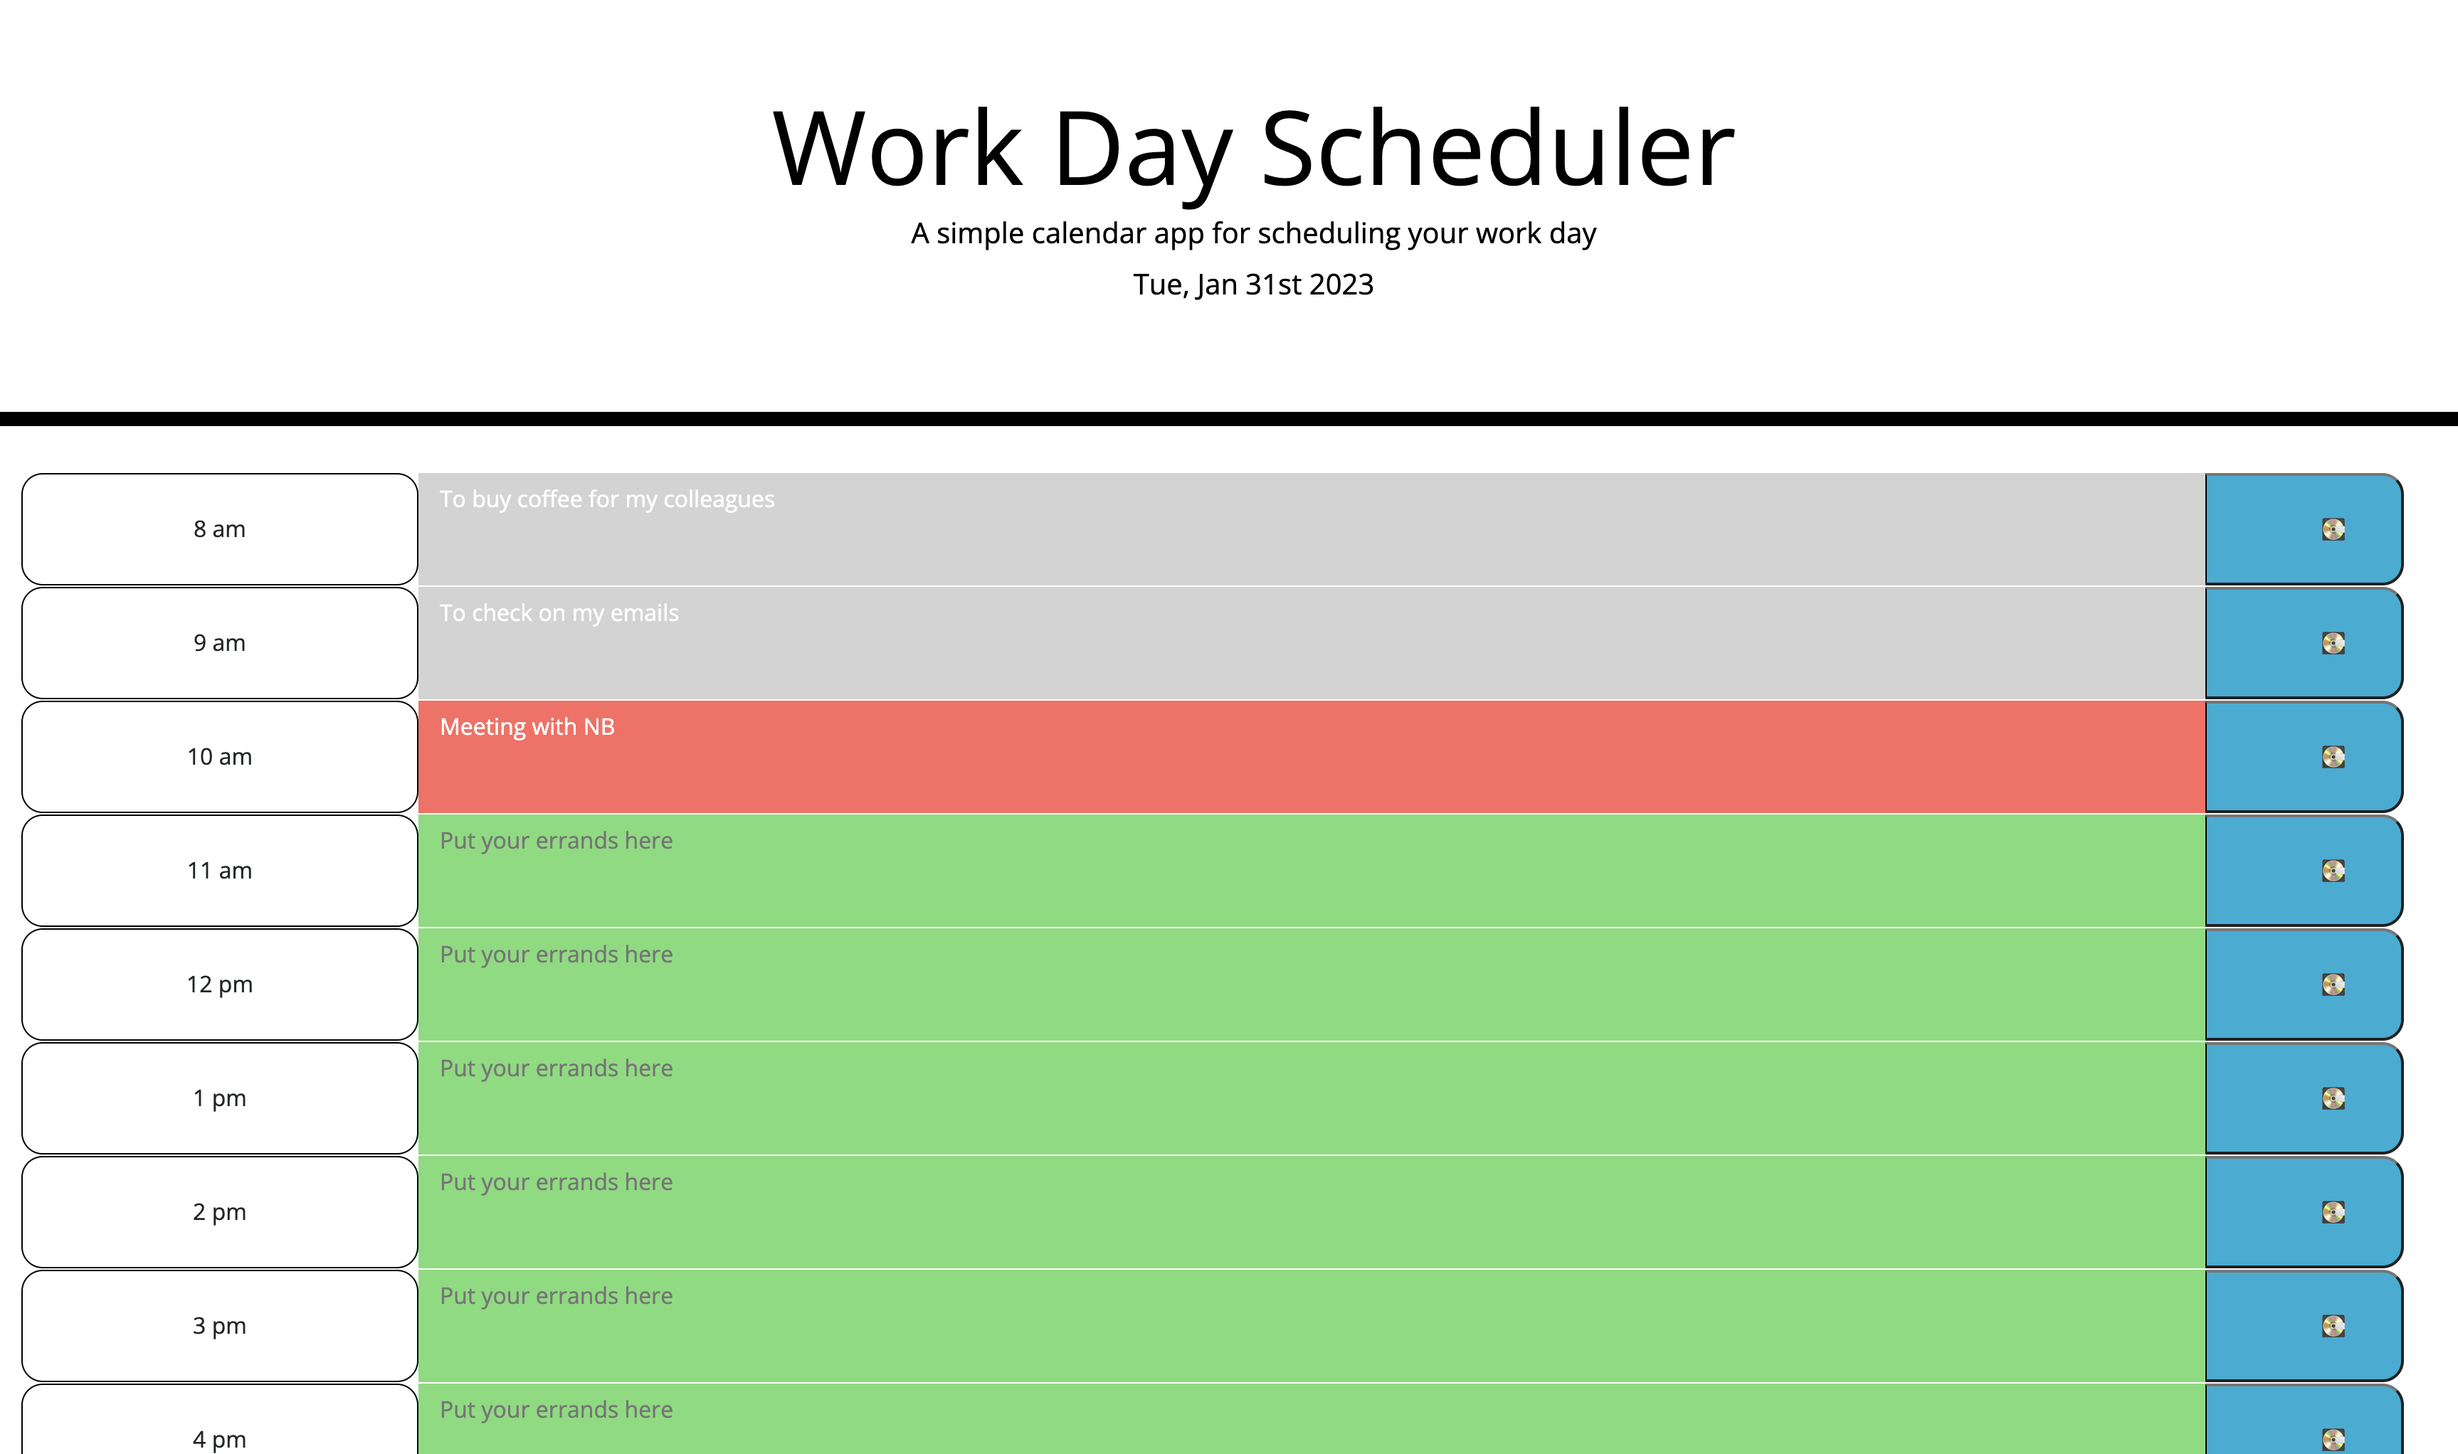
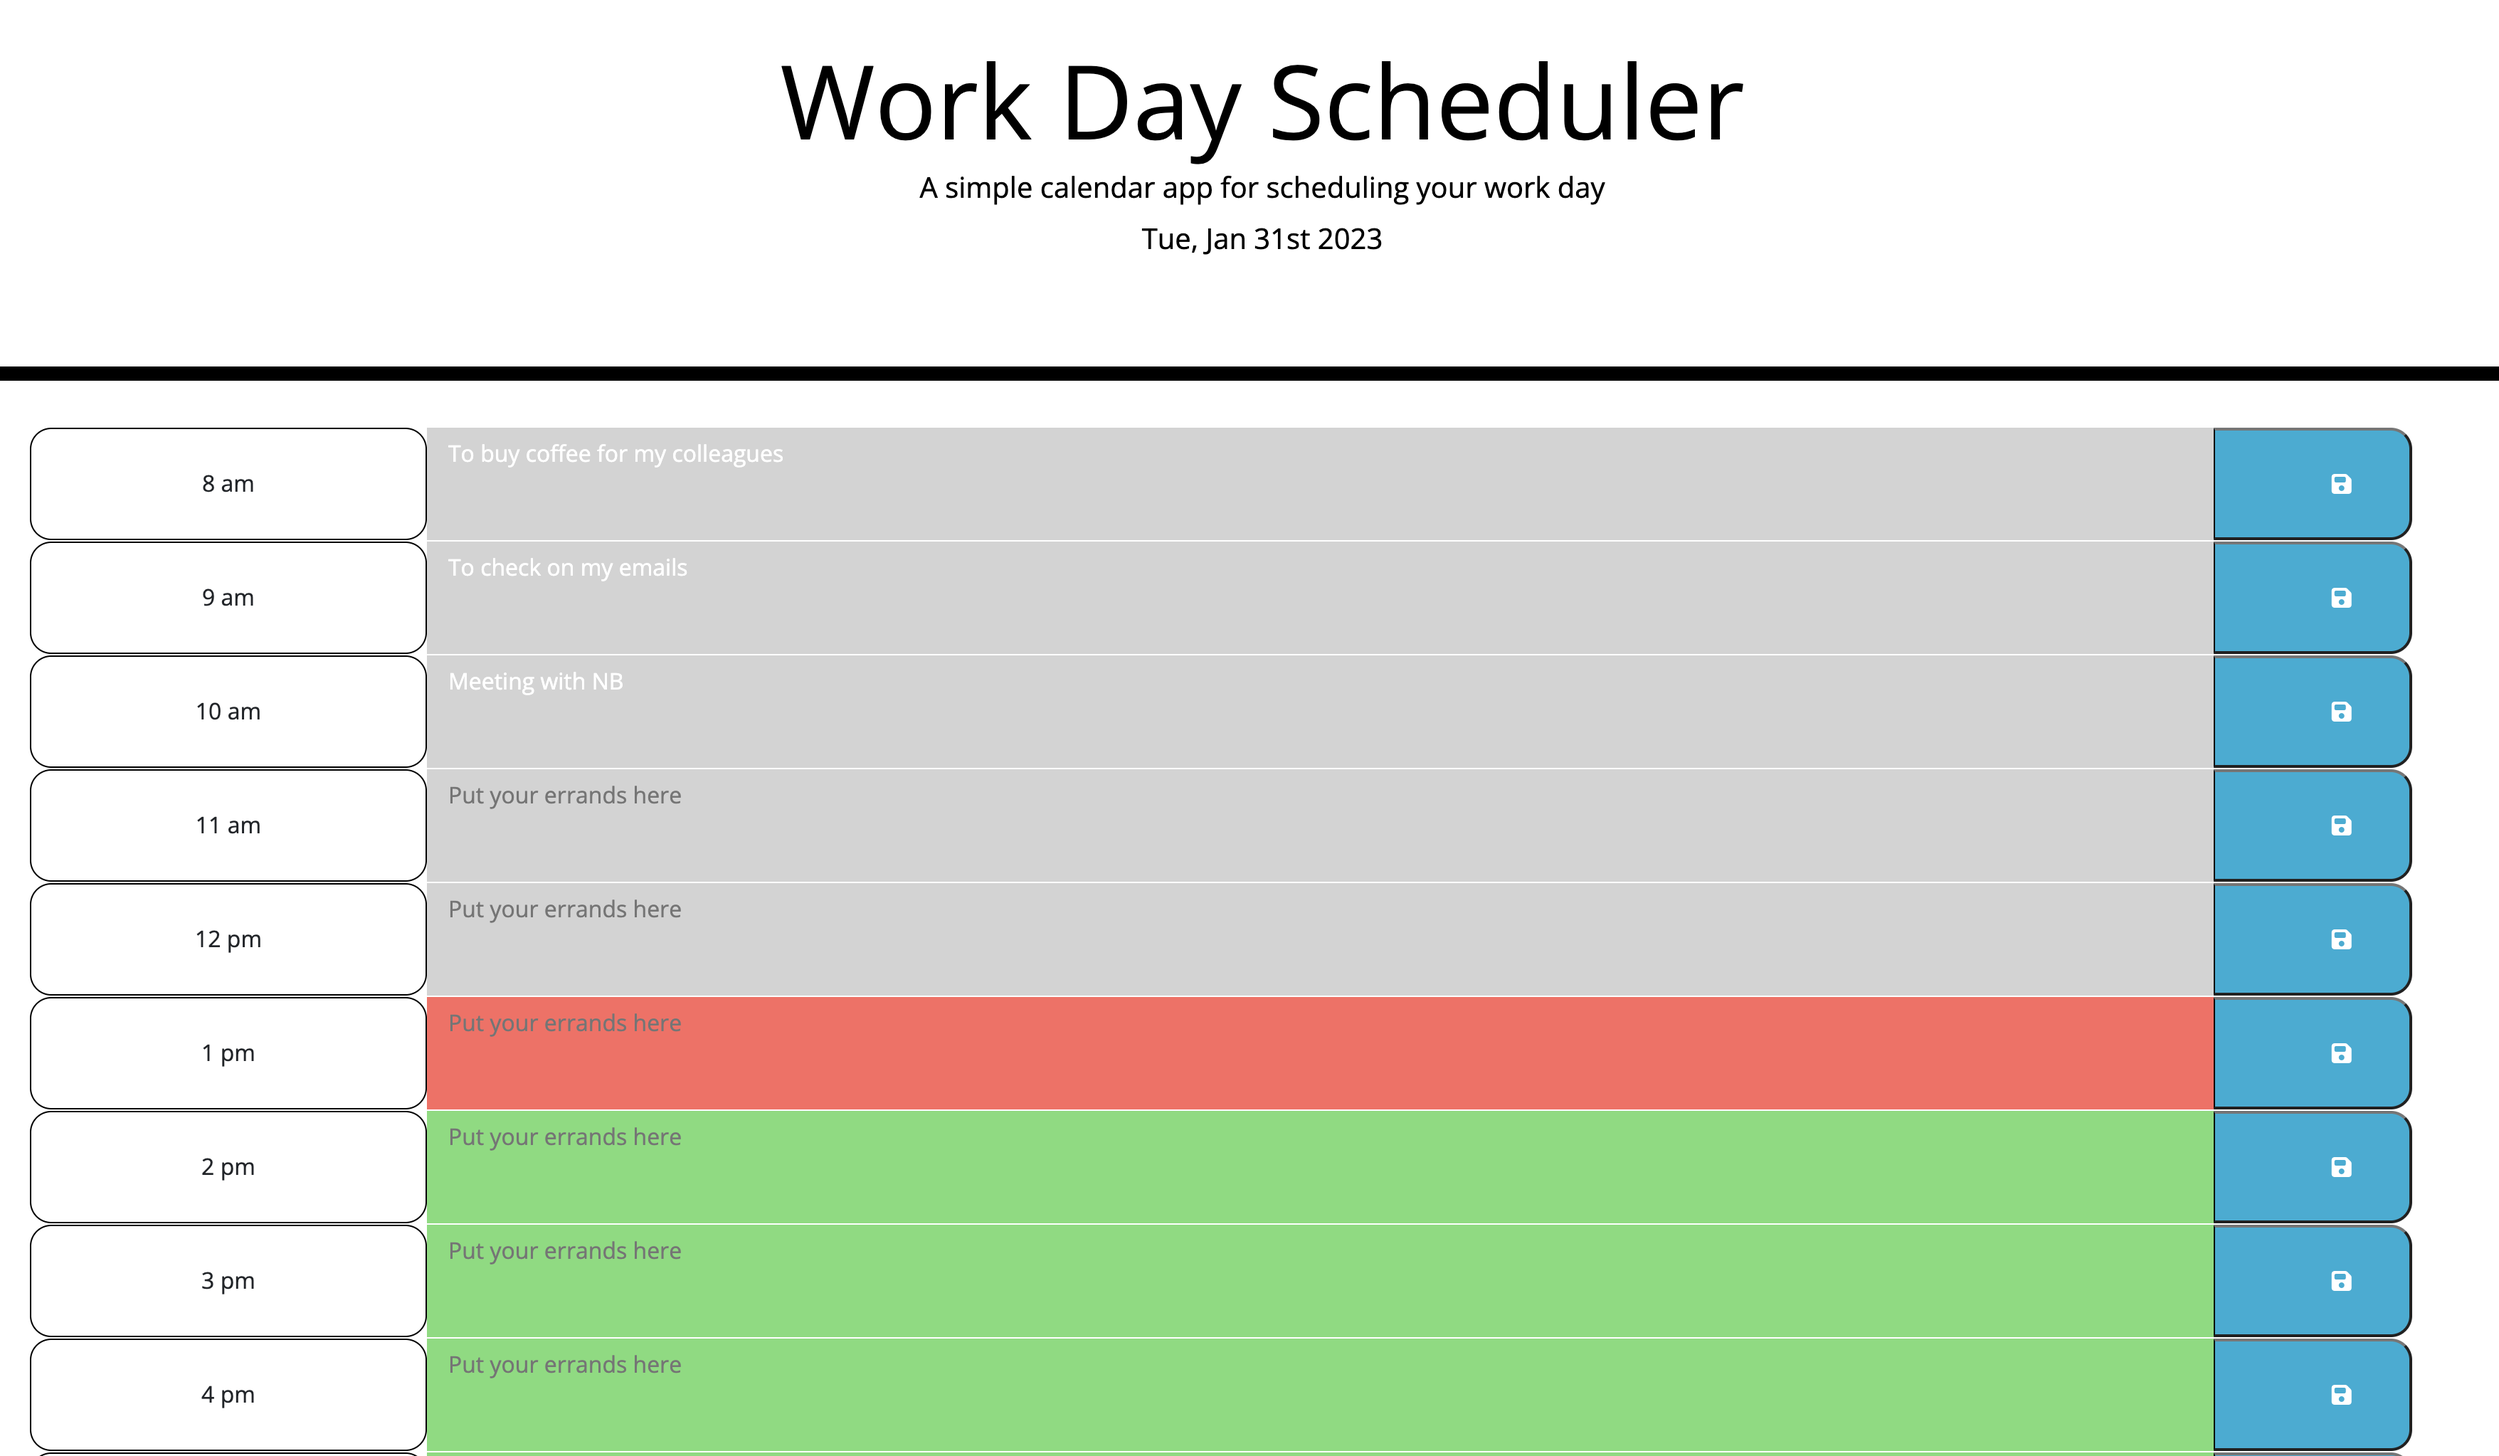
added fontawesome

diff --git a/index.html b/index.html
@@ -11,6 +11,7 @@
   <link href="https://fonts.googleapis.com/css?family=Open+Sans&display=swap" rel="stylesheet" />
   <script src="https://code.jquery.com/jquery-3.5.1.min.js"
     integrity="sha256-9/aliU8dGd2tb6OSsuzixeV4y/faTqgFtohetphbbj0=" crossorigin="anonymous"></script>
+  <script src="https://kit.fontawesome.com/237e7c9447.js" crossorigin="anonymous"></script>
   <script type="text/javascript" src="https://cdnjs.cloudflare.com/ajax/libs/moment.js/2.27.0/moment.min.js"></script>
   <link rel="stylesheet" href="./assets/style.css" />
   <title>Work Day Scheduler</title>
@@ -27,70 +28,70 @@
         <div class="time time-block col-2">8 am</div>
         <textarea type="text" class="errand-name col-9" placeholder="Put your errands here"></textarea>
         <button type="button" class="saveBtn col-1" aria-label="Close">
-          <span aria-hidden="true">💽</span>
+          <span class="fas fa-save" aria-hidden="true"></span>
         </button>
       </div>
       <div id="9" class="row text-center">
         <div class="time time-block col-2">9 am</div>
         <textarea type="text" class="errand-name col-9" placeholder="Put your errands here"></textarea>
         <button type="button" class="saveBtn col-1" aria-label="Close">
-          <span aria-hidden="true">💽</span>
+          <span class="fas fa-save" aria-hidden="true"></span>
         </button>
       </div>
       <div id="10" class="row text-center">
         <div class="time time-block col-2">10 am</div>
         <textarea type="text" class="errand-name col-9" placeholder="Put your errands here"></textarea>
         <button type="button" class="saveBtn col-1" aria-label="Close">
-          <span aria-hidden="true">💽</span>
+          <span class="fas fa-save" aria-hidden="true"></span>
         </button>
       </div>
       <div id="11" class="row text-center">
         <div class="time time-block col-2">11 am</div>
         <textarea type="text" class="errand-name col-9" placeholder="Put your errands here"></textarea>
         <button type="button" class="saveBtn col-1" aria-label="Close">
-          <span aria-hidden="true">💽</span>
+          <span class="fas fa-save" aria-hidden="true"></span>
         </button>
       </div>
       <div id="12" class="row text-center">
         <div class="time time-block col-2">12 pm</div>
         <textarea type="text" class="errand-name col-9" placeholder="Put your errands here"></textarea>
         <button type="button" class="saveBtn col-1" aria-label="Close">
-          <span aria-hidden="true">💽</span>
+          <span class="fas fa-save" aria-hidden="true"></span>
         </button>
       </div>
       <div id="13" class="row text-center">
         <div class="time time-block col-2">1 pm</div>
         <textarea type="text" class="errand-name col-9" placeholder="Put your errands here"></textarea>
         <button type="button" class="saveBtn col-1" aria-label="Close">
-          <span aria-hidden="true">💽</span>
+          <span class="fas fa-save" aria-hidden="true"></span>
         </button>
       </div>
       <div id="14" class="row text-center">
         <div class="time time-block col-2">2 pm</div>
         <textarea type="text" class="errand-name col-9" placeholder="Put your errands here"></textarea>
         <button type="button" class="saveBtn col-1" aria-label="Close">
-          <span aria-hidden="true">💽</span>
+          <span class="fas fa-save" aria-hidden="true"></span>
         </button>
       </div>
       <div id="15" class="row text-center">
         <div class="time time-block col-2">3 pm</div>
         <textarea type="text" class="errand-name col-9" placeholder="Put your errands here"></textarea>
         <button type="button" class="saveBtn col-1" aria-label="Close">
-          <span aria-hidden="true">💽</span>
+          <span class="fas fa-save" aria-hidden="true"></span>
         </button>
       </div>
       <div id="16" class="row text-center">
         <div class="time time-block col-2">4 pm</div>
         <textarea type="text" class="errand-name col-9" placeholder="Put your errands here"></textarea>
         <button type="button" class="saveBtn col-1" aria-label="Close">
-          <span aria-hidden="true">💽</span>
+          <span class="fas fa-save" aria-hidden="true"></span>
         </button>
       </div>
       <div id="17" class="row text-center">
         <div class="time time-block col-2">5 pm</div>
         <textarea type="text" class="errand-name col-9" placeholder="Put your errands here"></textarea>
         <button type="button" class="saveBtn col-1" aria-label="Close">
-          <span aria-hidden="true">💽</span>
+          <span class="fas fa-save" aria-hidden="true"></span>
         </button>
       </div>
     </div>

diff --git a/README.md b/README.md
@@ -14,12 +14,9 @@ This webpage is deployed  at live URL, you can access it using: https://web3cryp
 
 It looks like this:
 
-![Start quiz](assets/images/image1.png)
-
-  
-
-
+![Screenshot](assets/images/image1.png)
  
+
 ## Credits
 
 - Moment JS Library [Moment.js](https://momentjs.com/) 
